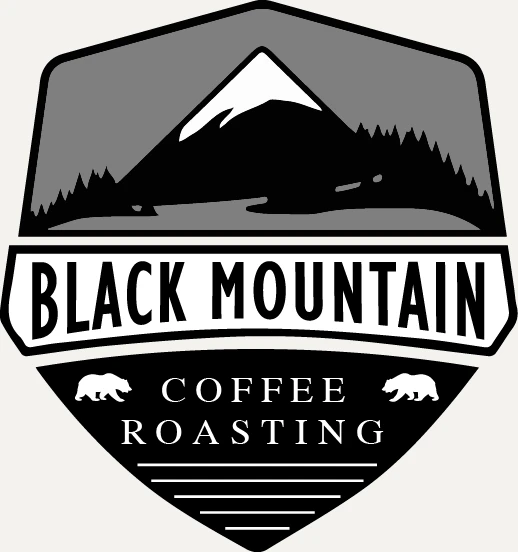
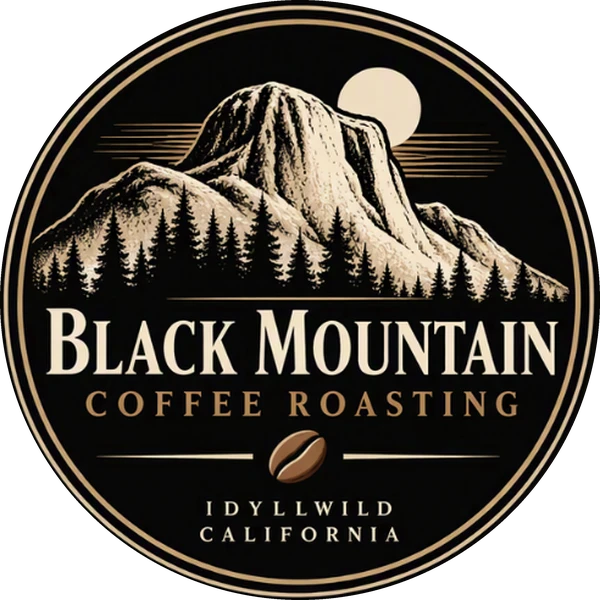
Replace app artwork with new original images
Claude-Session: https://claude.ai/code/session_0168yM6oJzy5Ueff74QpVX2d

diff --git a/index.html b/index.html
@@ -82,6 +82,7 @@
 
     <!-- REPS -->
     <article class="app">
+      <img class="app-banner" src="assets/reps-hero.webp" alt="The Gym by REPS Gym. Stronger everyday." width="1200" height="453" loading="lazy">
       <div>
         <div class="app-head">
           <img src="assets/reps-icon.webp" alt="REPS Gym app icon" width="64" height="64">
@@ -122,7 +123,7 @@
         <p>A customer app for a local coffee roaster, in design now. The goal: make it effortless for regulars to order, earn rewards and hear about new roasts.</p>
         <div class="tags"><span class="tag">React Native</span><span class="tag">iOS &amp; Android</span></div>
       </div>
-      <img class="bm-logo" src="assets/blackmountain.webp" alt="Black Mountain Coffee Roasting logo" loading="lazy" width="300" height="320">
+      <img class="bm-logo" src="assets/blackmountain.webp" alt="Black Mountain Coffee Roasting, Idyllwild California logo" loading="lazy" width="300" height="300">
     </article>
 
     <!-- TOOLS -->

diff --git a/styles.css b/styles.css
@@ -69,7 +69,8 @@ h2{font-size:2rem;margin-bottom:10px;line-height:1.2}
 .tag{font-size:.75rem;padding:3px 11px;border-radius:999px;background:var(--panel2);color:var(--muted);border:1px solid var(--line)}
 .shots{display:flex;gap:14px;overflow-x:auto;padding:6px 2px 14px;scroll-snap-type:x mandatory}
 .shots img{height:440px;width:auto;scroll-snap-align:start;flex:0 0 auto;filter:drop-shadow(0 14px 24px rgba(0,0,0,.4))}
-.bm-logo{border-radius:20px;max-width:300px;margin:0 auto}
+.bm-logo{max-width:300px;height:auto;margin:0 auto;filter:drop-shadow(0 14px 28px rgba(0,0,0,.45))}
+.app-banner{grid-column:1/-1;width:100%;height:auto;border-radius:16px;border:1px solid var(--line)}
 .note{font-size:.82rem;color:var(--muted);margin-top:10px}
 
 /* tools strip */
